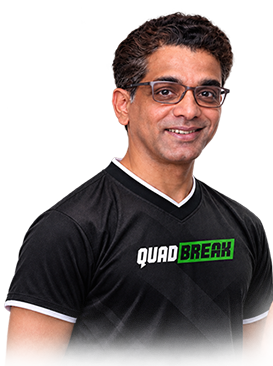
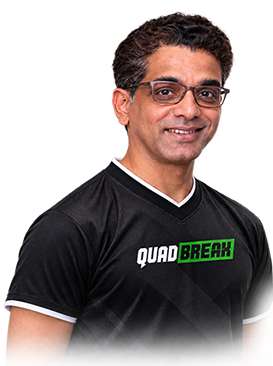
qweaaaaa

Changed region(s): [[0.8791, 0.7213, 1.0, 0.9317]]

diff --git a/src/components/Location.tsx b/src/components/Location.tsx
@@ -1,0 +1,129 @@
+"use client";
+
+import { useEffect, useRef } from "react";
+import gsap from "gsap";
+import { ScrollTrigger } from "gsap/ScrollTrigger";
+import StatsSection2 from "@/components/StatsSection2";
+
+
+gsap.registerPlugin(ScrollTrigger);
+
+const Location = () => {
+  const sectionRef = useRef<HTMLDivElement>(null);
+
+
+  const title2Ref = useRef<HTMLHeadingElement>(null);
+
+
+  const text4Ref = useRef<HTMLParagraphElement>(null);
+
+
+  const imgRef = useRef<HTMLImageElement>(null);
+  useEffect(() => {
+    const section = sectionRef.current;
+
+    if (!section) return;
+
+    const ctx = gsap.context(() => {
+      const tl = gsap.timeline({
+        scrollTrigger: {
+          trigger: section,
+          start: "top 75%",
+          toggleActions: "play none none none",
+          once: true,
+          invalidateOnRefresh: true,
+        },
+      });
+
+      tl.from(title2Ref.current, {
+        opacity: 0,
+        y: 30,
+        duration: 0.7,
+        ease: "power2.out",
+      })
+       
+         .from(
+          text4Ref.current,
+          {
+            opacity: 0,
+            y: 30,
+            duration: 0.7,
+            ease: "power2.out",
+          },
+          "-=0.45",
+        )
+        .from(
+          imgRef.current,
+          {
+            opacity: 0,
+            y: 30,
+            duration: 0.7,
+            ease: "power2.out",
+          },
+          "-=0.45",
+        );
+    }, section);
+
+    return () => ctx.revert();
+  }, []);
+
+  return (
+    <section
+      id="Location"
+      className="section overflow-hidden py-14 md:pt-10  md:pb-18"
+      ref={sectionRef}
+    >
+      {/* <div className="shape3 z-[-1]"></div>
+      <div className="shape2 z-[-1]"></div> */}
+      <div className="grid-wrapper max-w-[1450px] mx-auto px-5 lg:px-10">
+        <div className="stacked-content">
+          <div className="content-wrapper pt-30">
+            <div className=" grid gap-y-10 lg:gap-y-30">
+             
+              <div className="grid md:grid-cols-2 gap-8 lg:gap-14 items-center mt-10 lg:mt-[-40px]">
+                {/* Image */}
+
+                <div className="about-fade relative ">
+                  <div className="rounded-xl lg:rounded-2xl border relative border-white/10 side-image">
+                    <span className="span1"></span>
+                    <span className="span2"></span>
+
+
+                     <img src="/images/map.png" alt="Quadbreak Studios map"  className="w-full h-[450px] object-cover p-1 lg:p-2 rounded-xl lg:rounded-2xl z-9 relative border-white/10 border" />
+                 
+                  </div>
+                </div>
+
+                {/* Content */}
+
+               <div className="">
+                  <div className="flex flex-col mb-6">
+                    <h2
+                      ref={title2Ref}
+                      className="uppercase w-fit text-white  text-4xl lg:text-[4rem]  leading-none font-light  relative"
+                    >
+                    Location and Journey
+                    </h2>
+                  </div>
+                  <p
+                    ref={text4Ref}
+                    className="about-paragraph text-[16px] md:text-[20px] leading-snug font-[200] text-white/80 text-justify"
+                  >
+                   Technology continues to reshape the way digital worlds are created. <span className="text-[var(--green)] italic">At Quadbreak, we actively explore emerging technologies, automation, and AI-assisted workflows to understand how they can improve efficiency and scale across our production.</span>
+
+                   While the tools continue to evolve, our artists remain at the heart of the process — bringing creativity, experience, artistic judgment, and quality control to every project.
+
+                   We believe the future of 3D production will be built through the right balance of human creativity and intelligent technology.
+                  </p>
+                  
+                </div>
+              </div>
+            </div>
+          </div>
+        </div>
+      </div>
+    </section>
+  );
+};
+
+export default Location;

diff --git a/src/components/Categories.tsx b/src/components/Categories.tsx
@@ -51,7 +51,7 @@ const categories: Category[] = [
     title: "QuadBreak Academy",
     subtitle: "Learn • Create • Build",
     description:
-      "QuadBreak Academy focuses on practical, production-oriented education designed to help aspiring artists develop real-world 3D and game-art skills. QuadBreak Studio brings game worlds to life through high-quality 3D assets, environments, characters, animation, VFX and cinematic content.",
+      "Quadbreak runs training programs for young people from Kerala who want to build careers in 3D art and game development. Students learn the same pipeline and quality standards used on real Disney and simulation projects — and the best of them join the studio team. We're not just hiring artists. We're making them.",
     image: "/images/works/3.png",
 
     href: "/services",
@@ -211,10 +211,10 @@ export default function Categories() {
             return (
               <article
                 key={cat.number}
-                className={` group relative grid grid-cols-1 lg:grid-cols-5 overflow-hidden gap-7  xl:gap-15 pb-12`}
+                className={` group relative grid grid-cols-1  gap-7  xl:gap-15 pb-12`}
               >
                 {/* Image */}
-                <div className="lg:col-span-2 cat4-img relative  aspect-[16/9] w-full overflow-hidden  bg-[#141414]">
+                {/* <div className="lg:col-span-2 cat4-img relative  aspect-[16/9] w-full overflow-hidden  bg-[#141414]">
                   <Image
                     src={cat.image}
                     alt={`${cat.title} — ${cat.subtitle}`}
@@ -226,7 +226,7 @@ export default function Categories() {
                     className="pointer-events-none absolute inset-0 z-10 bg-gradient-to-t from-black/40 via-transparent to-transparent"
                     aria-hidden="true"
                   />
-                </div>
+                </div> */}
                 <div className="lg:col-span-3">
                   <div className="mb-2 flex items-start justify-between">
                     <div>
@@ -238,7 +238,7 @@ export default function Categories() {
                       </span>
 
                       {/* Description */}
-                      <p className="mt-4  font-light text-[14px] xl:text-lg  xl:max-w-[90%]">
+                      <p className="mt-4  font-light text-[14px] xl:text-lg  xl:max-w-[80%]">
                         {cat.description}
                       </p>
                     </div>

diff --git a/src/components/CTASection.tsx b/src/components/CTASection.tsx
@@ -129,7 +129,7 @@ const CTASection = () => {
                 leading-[0.95]
                 tracking-tight
                 mb-6
-                text-4xl lg:text-6xl xl:text-5xl"
+                text-4xl lg:text-[50px]"
               >
                 Jesto 
                 <br />
@@ -257,24 +257,25 @@ const CTASection = () => {
               />
             </div>
             <div className=" max-w-[600px]">
-              <span className="uppercase text-[var(--green)] font-light w-fit mb-2 block  ml-auto">Creative director</span>
+              <span className="uppercase text-[var(--green)] font-light w-fit mb-2 block  ml-auto">Studio Art director</span>
               <h4
                 className="font-light text-right
                 uppercase
                 leading-[0.95]
                 tracking-tight
                 mb-6
-                text-4xl lg:text-6xl xl:text-5xl"
+                text-4xl lg:text-[50px]"
               >
                 Mithun
                 <br />
               Alexander
               </h4>
               <p className="text-right text-sm md:text-base  font-light leading-relaxed text-white/60">
-                Great art starts with a bold vision and the drive to make it
+                 Great art starts with a bold vision and the drive to make it
                 happen. Jesto Jose and Mithun Alexander are at the core of
                 Quadbreak — bringing creative vision, years of industry
-                experience.
+                experience, and a deep passion for the craft, while pushing
+                creative boundaries.
               </p>
               <div className="mt-4">
           <AnimatedButton

diff --git a/src/components/TeamSection.tsx b/src/components/TeamSection.tsx
@@ -18,15 +18,15 @@ interface TeamMember {
 const staticTeam: TeamMember[] = [
   {
     id: 1,
-    name: "Titto",
-    role: "Business Development Manger",
-    photoUrl: "/images/member1.png",
+    name: "Joshmi Maria",
+    role: "Director of Finance",
+    photoUrl: "/images/member5.png",
   },
   {
     id: 2,
     name: "Titto",
     role: "Business Development Manger",
-    photoUrl: "/images/member2.png",
+    photoUrl: "/images/member1.png",
   },
   {
     id: 3,
@@ -44,14 +44,9 @@ const staticTeam: TeamMember[] = [
     id: 5,
     name: "Titto",
     role: "Business Development Manger",
-    photoUrl: "/images/member1.png",
-  },
-  {
-    id: 6,
-    name: "Titto",
-    role: "Business Development Manger",
     photoUrl: "/images/member2.png",
   },
+
 ];
 
 const TeamSection = () => {

diff --git a/src/components/OurStory.tsx b/src/components/OurStory.tsx
@@ -147,7 +147,7 @@ We’re constantly pushing our skills, experimenting with new ideas, and looking
                     ref={text2Ref}
                     className="uppercase w-fit text-white/60 max-w-[520px] lg:text-right italic mb-4 lg:mb-10 text-3xl xl:text-[3rem]  leading-none font-light  relative"
                   >
-                    Since <span className="text-[var(--green)]">2026</span>{" "}<br/>
+                    Since <span className="text-[var(--green)]">2016</span>{" "}<br/>
                     It&apos;s been a{" "}
                     <span className="text-[var(--green)]">cool journey,</span>{" "}
                     and <span className="text-[var(--green)]">we&apos;re</span>{" "}

diff --git a/src/app/about/page.tsx b/src/app/about/page.tsx
@@ -4,6 +4,8 @@
 import Header from '@/components/Header';
 import Footer from '@/components/Footer';
 import OurStory from "@/components/OurStory";
+import Location from "@/components/Location";
+
 import Values from "@/components/Values";
 import WhatWeDO from "@/components/WhatWeDO";
 
@@ -25,6 +27,8 @@ export default function AboutPage() {
       <main>
         <OurStory />
         <Values />
+        <Location />
+
         <WhatWeDO/>
         <Categories />
         <TeamSection />
